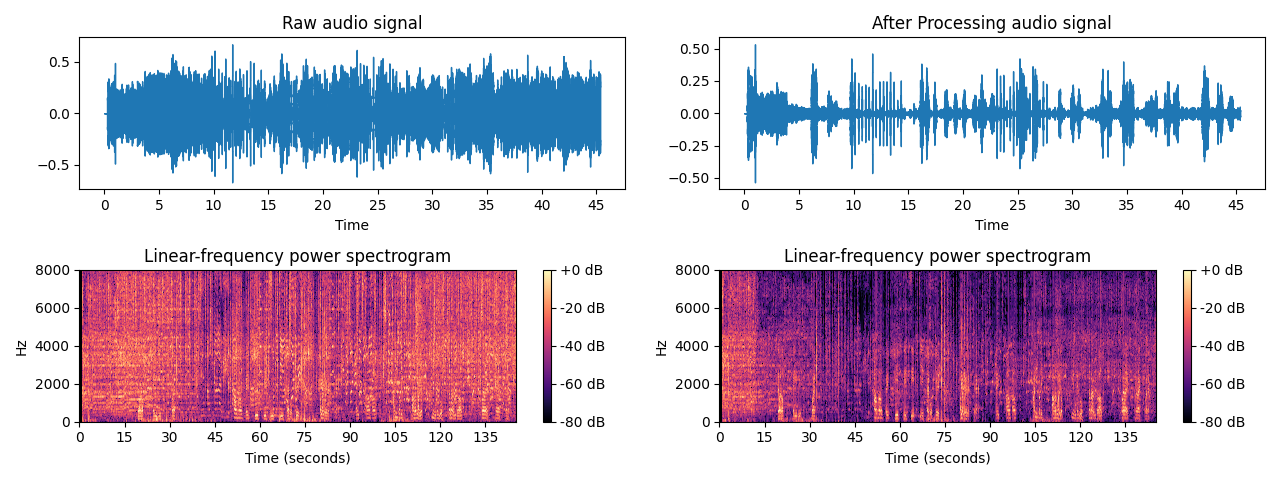
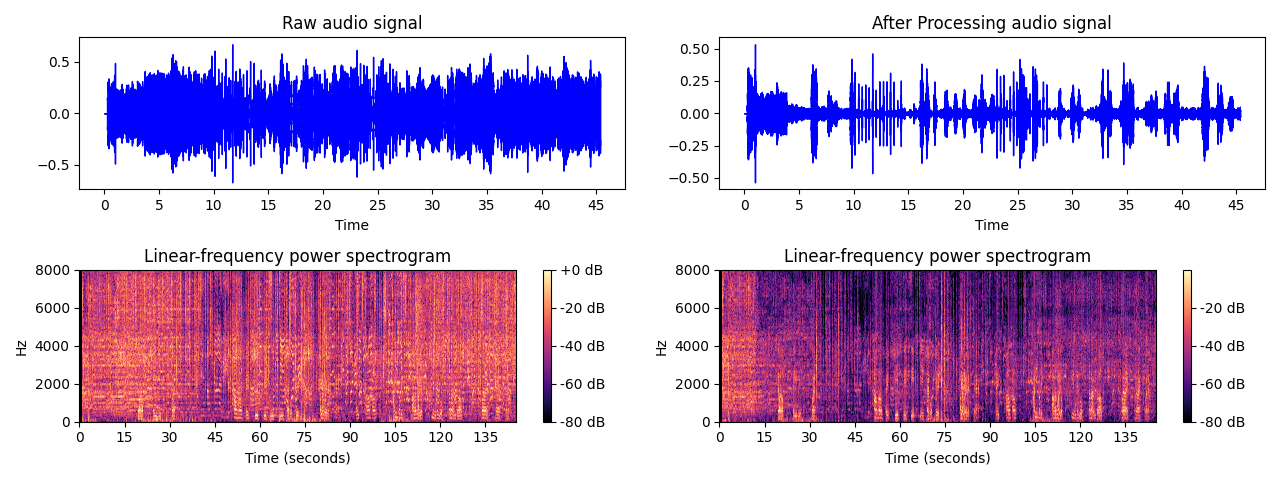
Update model structure and add inference time table

Changed region(s): [[0.0625, 0.0938, 0.4688, 0.375], [0.5625, 0.125, 0.9688, 0.3438], [0.9375, 0.5312, 0.9688, 0.5938]]

diff --git a/model/get_flops.py b/model/get_flops.py
@@ -6,15 +6,16 @@ from tensorflow.python.framework.convert_to_constants import convert_variables_t
 def try_count_flops(model: Union[tf.Module, tf.keras.Model],
                     inputs_kwargs: Optional[Dict[str, Any]] = None,
                     output_path: Optional[str] = None):
-    """Counts and returns model FLOPs.
-  Args:
-    model: A model instance.
-    inputs_kwargs: An optional dictionary of argument pairs specifying inputs'
-      shape specifications to getting corresponding concrete function.
-    output_path: A file path to write the profiling results to.
-  Returns:
-    The model's FLOPs.
-  """
+    """
+    Counts and returns model FLOPs.
+    Args:
+        model: A model instance.
+        inputs_kwargs: An optional dictionary of argument pairs specifying inputs'
+            shape specifications to getting corresponding concrete function.
+        output_path: A file path to write the profiling results to.
+    Returns:
+        The model's FLOPs.
+    """
     if hasattr(model, 'inputs'):
         try:
             # Get input shape and set batch size to 1.
@@ -50,5 +51,8 @@ def try_count_flops(model: Union[tf.Module, tf.keras.Model],
             return None
     return None
 
-# flops = try_count_flops(Alexnet32())
-# print(flops/1000000,"M Flops")
+
+if __name__ == '__main__':
+    # flops = try_count_flops(Alexnet32())
+    # print(flops/1000000,"M Flops")
+    pass

diff --git a/model/tinySenet.py b/model/tinySenet.py
@@ -15,20 +15,23 @@ from get_flops import try_count_flops
 os.environ['CUDA_VISIBLE_DEVICES'] = '-1'
 
 hidden_size = 320
-fast_grnn = [
-    FastGRNNCell(hidden_size),
-    FastGRNNCell(hidden_size),
-]
+
 
 class TinySenet(models.Model):
-    def __init__(self, n_freq_bins=161, rnn_dropout=0.2):
+    def __init__(self, n_freq_bins=161, hidden_size = 320, rnn_dropout=0.2):
         super(TinySenet, self).__init__()
         self.n_freq_bins = n_freq_bins
         self.dense0 = Dense(hidden_size, activation='relu')
         self.rnn = models.Sequential([], name='rnn')
 
-        for i in range(len(fast_grnn)):
-            self.rnn.add(RNN(fast_grnn[i], return_sequences=True, name='fast_grnn_{}'.format(i)))
+        # rnn cell stack
+        fast_grnn = [
+            FastGRNNCell(hidden_size),
+            FastGRNNCell(hidden_size),
+        ]
+
+        for idx, cell in enumerate(fast_grnn):
+            self.rnn.add(RNN(cell, return_sequences=True, name='fast_grnn_{}'.format(idx)))
             self.rnn.add(Dropout(rnn_dropout))
 
         self.dense1 = Dense(320, activation='relu')

diff --git a/model/nsnet2_ex.py b/model/nsnet2_ex.py
@@ -108,9 +108,9 @@ if __name__ == '__main__':
     # irfft
     y = np.fft.irfft(y)
     print("after irfft:\t", y.shape)
-    # calc flops
-    from thop import profile
-    flops, params = profile(model, inputs=(x,))
-    # to Gflops
-    flops = flops / 1e9
-    print("FLOPs: %.2f G" % flops)
+    # # calc flops
+    # from thop import profile
+    # flops, params = profile(model, inputs=(x,))
+    # # to Gflops
+    # flops = flops / 1e9
+    # print("FLOPs: %.2f G" % flops)

diff --git a/vis_audio.py b/vis_audio.py
@@ -13,7 +13,7 @@ from PIL import Image
 def show_audio(y, title='Raw', sr=16000):
     plt.figure()
     plt.subplot(2, 1, 1)
-    librosa.display.waveshow(y, sr=sr)
+    librosa.display.waveshow(y, sr=sr, color='b')
     plt.title('{} audio signal'.format(title))
 
     plt.subplot(2, 1, 2)

diff --git a/README.md b/README.md
@@ -10,9 +10,13 @@ The pipeline is based on the paper "Towards efficient models for real-time deep 
 The `model/nsnet2` model structure is same as the original model.
 The `model/nsnet2_ex` model is a modified version of the original model. Includes the preprocessing and postprocessing steps in the model, but excludes the FFT and IFFT processes.
 
+In addition, the `model/tinySenet` model is a modified version of the original model. The model is implemented with a small number of parameters via tensorflow. Replace the original model GRU with a FastGRNN cell. The quantized tf-lite model get 0.067 ms inference time on Apple M2 chip.
+
 ## Inference Time
 
-The inference time of the `model/tinySenet.py` model is 0.067 ms on Apple M2 chip.
+| Model | Platform | Inference Time |
+| :---: | :---: | :---: |
+| tinySenet | Apple M2 | 0.067 ms |
 
 ## Attribution
 
